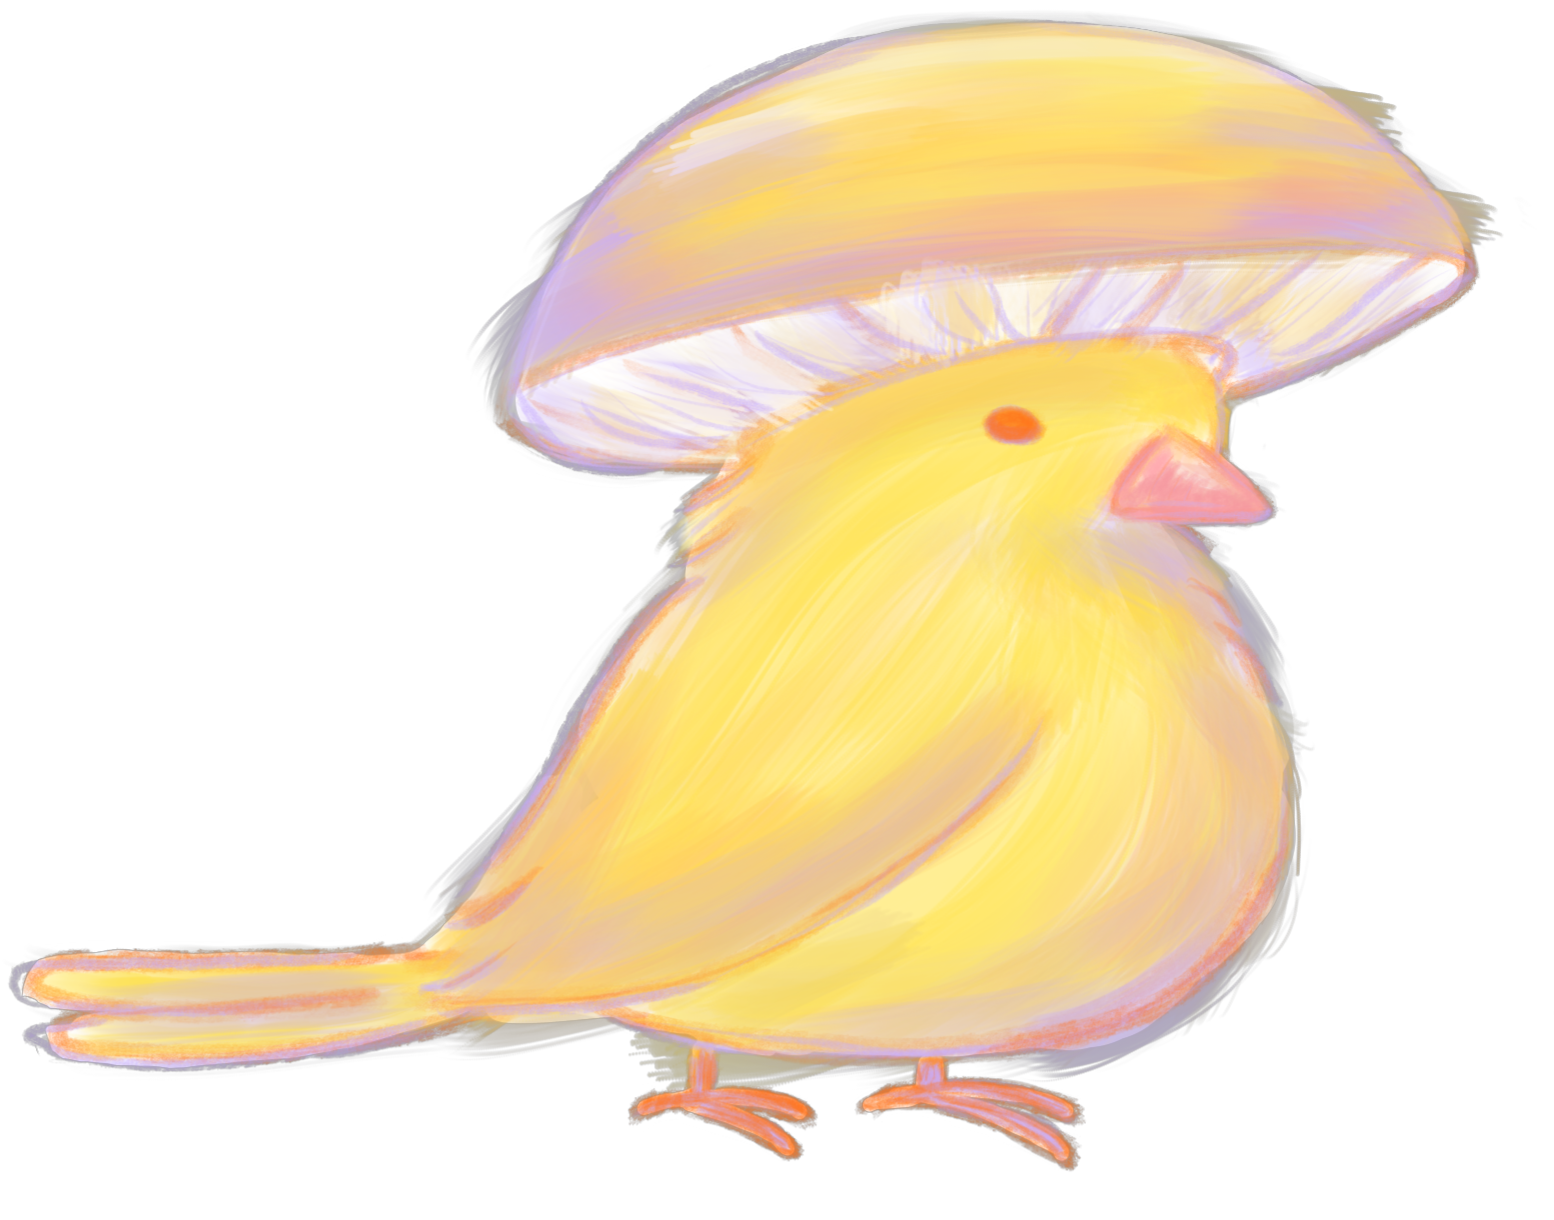
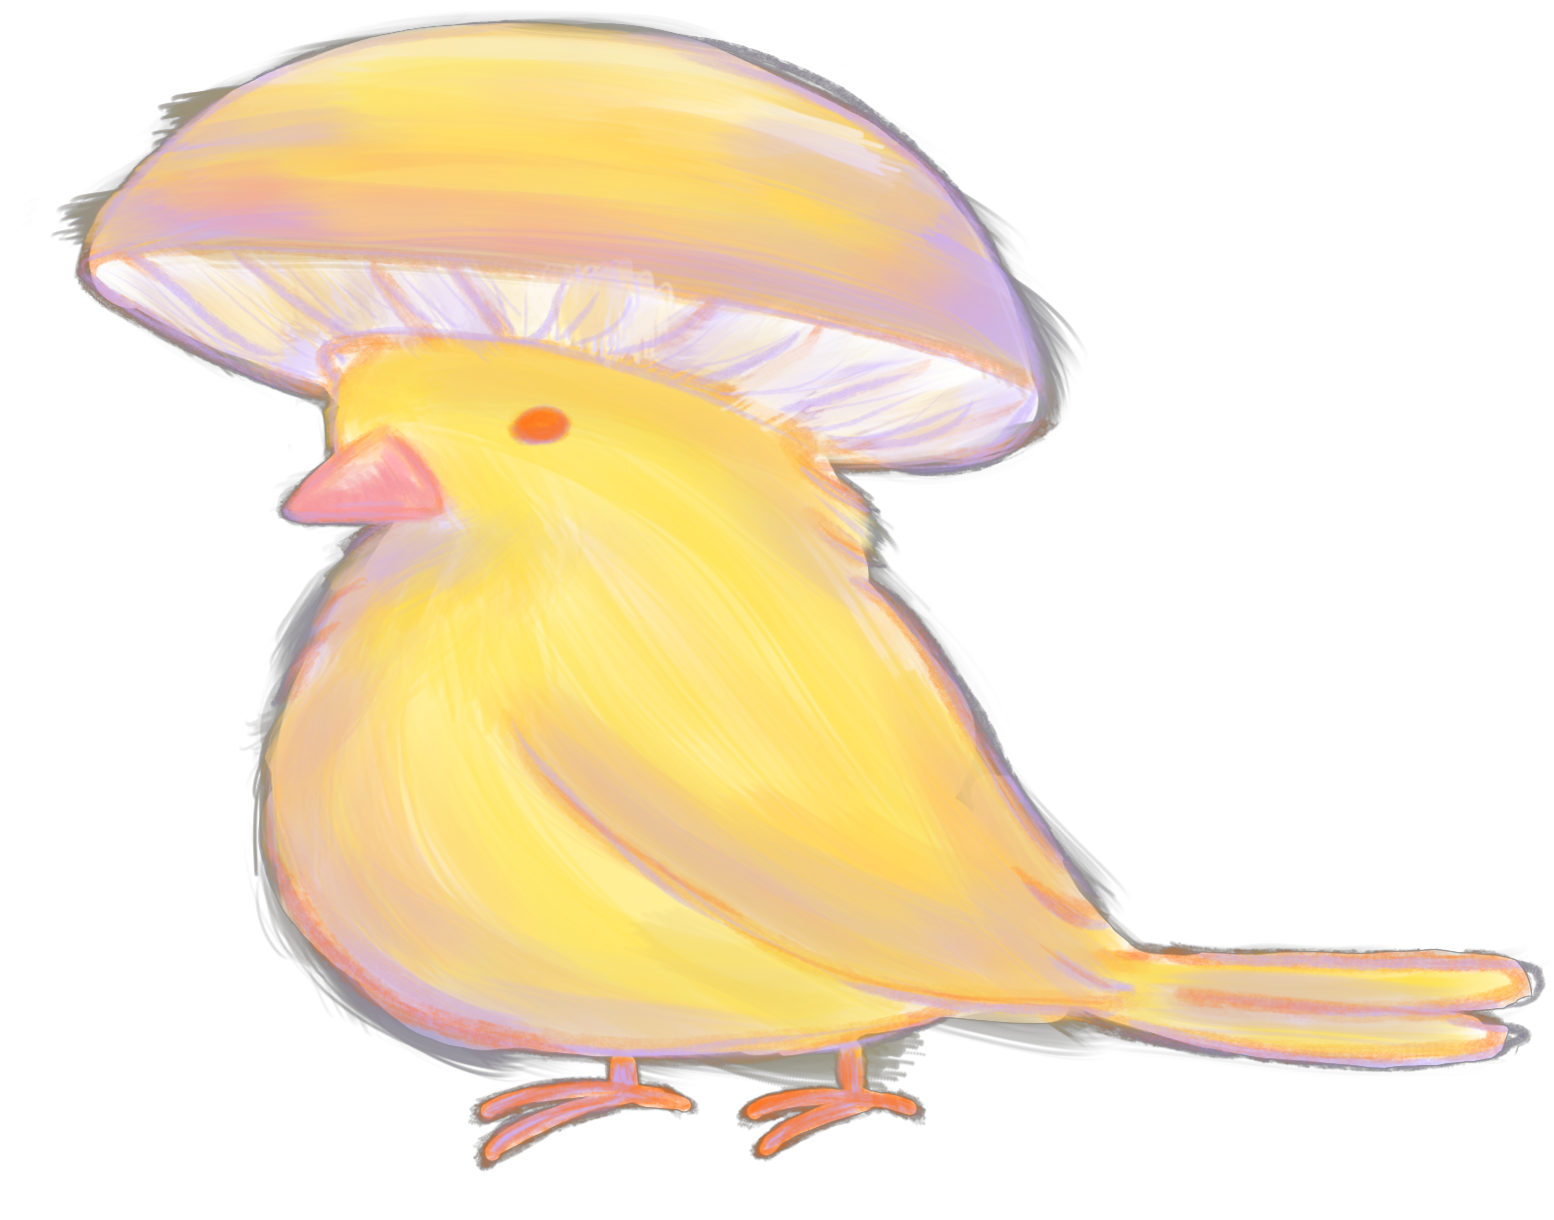
Con canarios

diff --git a/index.html b/index.html
@@ -29,6 +29,36 @@
             overflow-x: hidden;
         }
 
+        /* --- NUEVA SECCIÓN: CANARIOS ASOMADOS --- */
+        .canario-asomado {
+            position: fixed;
+            z-index: 1000; /* Siempre por encima de todo */
+            pointer-events: none; /* No interfieren con el mouse */
+            animation: balanceo 4s infinite ease-in-out;
+        }
+
+        /* CANARI1: Esquina superior derecha */
+        .canario-top-right {
+            top: -50px;
+            right: -80px;
+            width: 450px; /* Tamaño grande */
+            transform-origin: top right;
+        }
+
+        /* CANARIO2: Esquina inferior izquierda */
+        .canario-bottom-left {
+            bottom: -60px;
+            left: -100px;
+            width: 500px; /* Tamaño grande */
+            transform-origin: bottom left;
+        }
+
+        /* Animación de vida (balanceo suave) */
+        @keyframes balanceo {
+            0%, 100% { transform: rotate(0deg) scale(1); }
+            50% { transform: rotate(3deg) scale(1.02); }
+        }
+
         /* --- FONDO ESTRELLADO CON TINTINEO --- */
         .stars-container { position: fixed; top: 0; left: 0; width: 100%; height: 100%; z-index: -1; }
         .star { 
@@ -67,7 +97,7 @@
         .subtitulo { color: var(--p-orange); font-size: clamp(1.2rem, 2.5vw, 1.5rem); letter-spacing: 6px; margin: 25px 0; font-weight: 600; text-transform: uppercase; }
         .descripcion-perfil { font-weight: 300; font-size: 1.05rem; max-width: 750px; line-height: 1.7; opacity: 0.8; }
 
-        /* --- PLANETAS (ESPACIADO PARA NO TAPAR EL TEXTO) --- */
+        /* --- PLANETAS --- */
         .planets-container {
             position: relative; 
             min-height: 180vh; 
@@ -86,7 +116,6 @@
             position: relative; overflow: hidden; border: none;
         }
 
-        /* Imágenes de los planetas */
         .img-planeta-png {
             position: absolute; top: 0; left: 0;
             width: 100%; height: 100%;
@@ -101,7 +130,7 @@
         .planet-link span { position: relative; z-index: 10; font-weight: 800; letter-spacing: 2px; text-transform: uppercase; font-size: 0.85rem; margin-top: 15px; }
         .icon-size { font-size: 3.5rem; position: relative; z-index: 10; }
 
-        /* --- LUNAS Y GALERÍA SOBREPUESTA --- */
+        /* --- LUNAS Y GALERÍA --- */
         .orbit {
             position: absolute; width: 170%; height: 170%;
             border: 2px solid rgba(255, 255, 255, 0.05); border-radius: 50%;
@@ -117,7 +146,6 @@
             font-size: 0.75rem; font-weight: bold; color: var(--p-cream); cursor: pointer; z-index: 50;
         }
 
-        /* Galería "Nube" */
         .project-detail {
             position: absolute; width: 600px; height: 450px;
             opacity: 0; pointer-events: none; transition: 0.4s; z-index: 500;
@@ -125,14 +153,12 @@
         }
         .project-moon:hover .project-detail { opacity: 1; pointer-events: auto; }
 
-        /* Cuadro de texto */
         .detail-text-box {
             background: var(--p-rose-trans); backdrop-filter: blur(15px);
             padding: 30px; border-radius: 50px; border: 1px solid rgba(255,255,255,0.2);
             width: 320px; text-align: center; z-index: 1; box-shadow: 0 15px 40px rgba(0,0,0,0.4);
         }
 
-        /* Imágenes flotantes */
         .floating-images img {
             position: absolute; border-radius: 50%; border: 4px solid white;
             object-fit: cover; box-shadow: 0 10px 30px rgba(0,0,0,0.5);
@@ -140,12 +166,9 @@
         }
         .floating-images img:hover { transform: scale(1.4); z-index: 100; }
 
-        /* Posiciones imágenes (GitHub) */
         .img-k1 { width: 180px; height: 180px; top: 0; left: 50px; }
         .img-k2 { width: 220px; height: 220px; bottom: 0; left: 0px; }
-        .img-k3 { width: 200px; height: 200px; top: 40px; right: 10px; }
 
-        /* UBICACIONES PLANETARIAS */
         .sys-industrial { left: 5%; top: 15%; }
         .sys-ux { right: 8%; top: 40%; }
         .sys-artesanal { left: 35%; bottom: 8%; }
@@ -170,6 +193,9 @@
     </style>
 </head>
 <body>
+
+    <img src="CANARI1.PNG" alt="Canario Superior" class="canario-asomado canario-top-right">
+    <img src="CANARIO2.PNG" alt="Canario Inferior" class="canario-asomado canario-bottom-left">
 
     <div class="stars-container" id="starField"></div>
 
